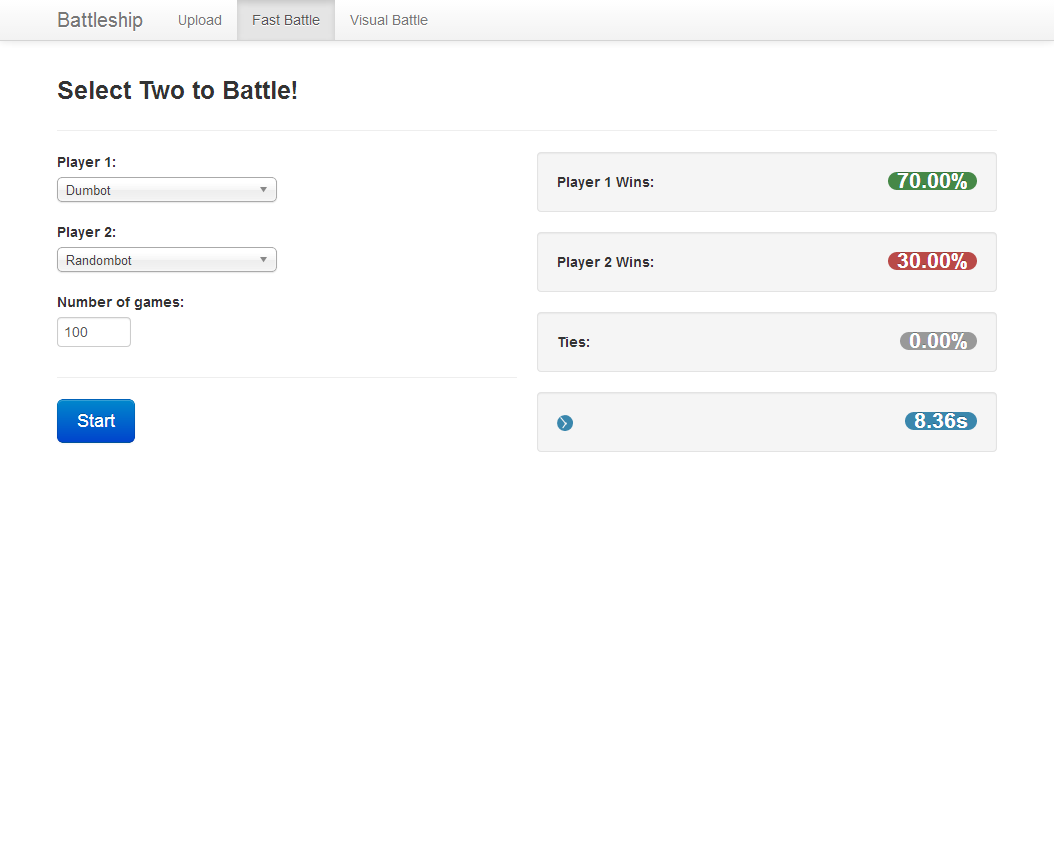
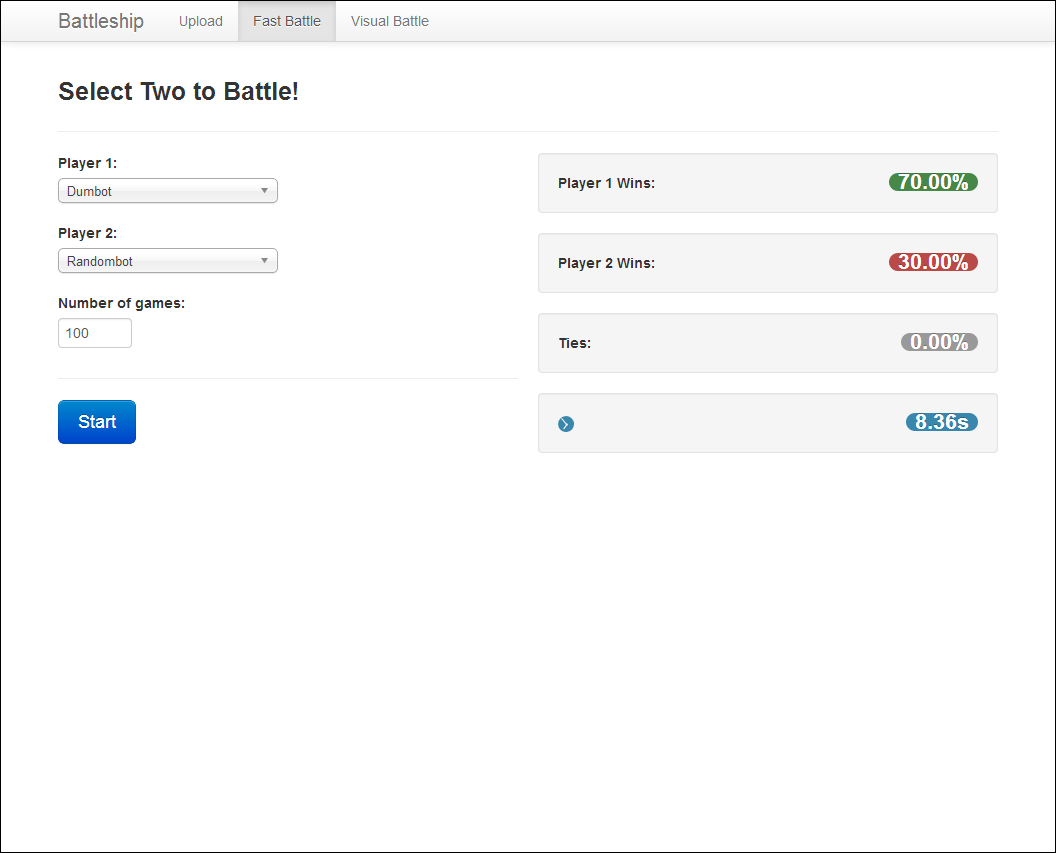
Updated images to have borders.

diff --git a/README.md b/README.md
@@ -12,8 +12,11 @@ AI competition built on Node.js. Players create bots in JavaScript.
 
  - Battles can be run in **Fast** mode or **Visual** mode (screenshots below). Visual mode runs three games and allows you to step through them at various speeds.
 
+## Fast Mode ##
+
 <img alt="Fast Mode Screenshot" src="https://raw.github.com/gotdibbs/Battleship/master/fast.png" style="border: 1px solid #444;" />
-> Fast Mode
+
+## Visual Mode ##
 
 <img alt="Visual Mode Screenshot" src="https://raw.github.com/gotdibbs/Battleship/master/visual.png" style="border: 1px solid #444;" />
-> Visual Mode
+
